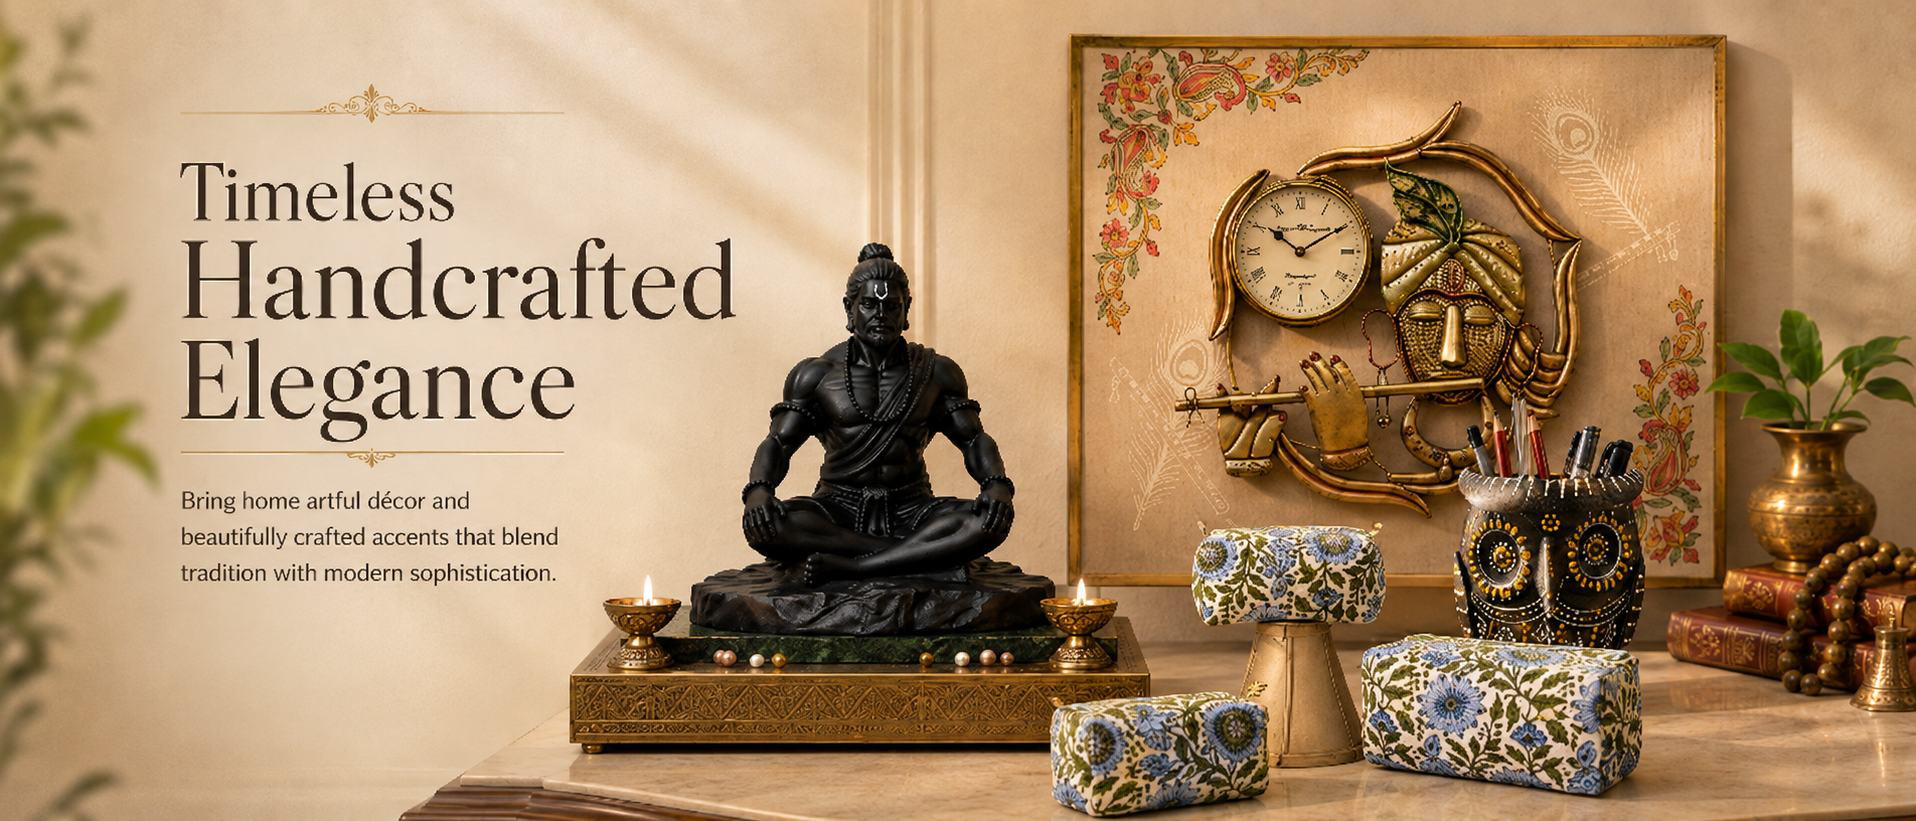
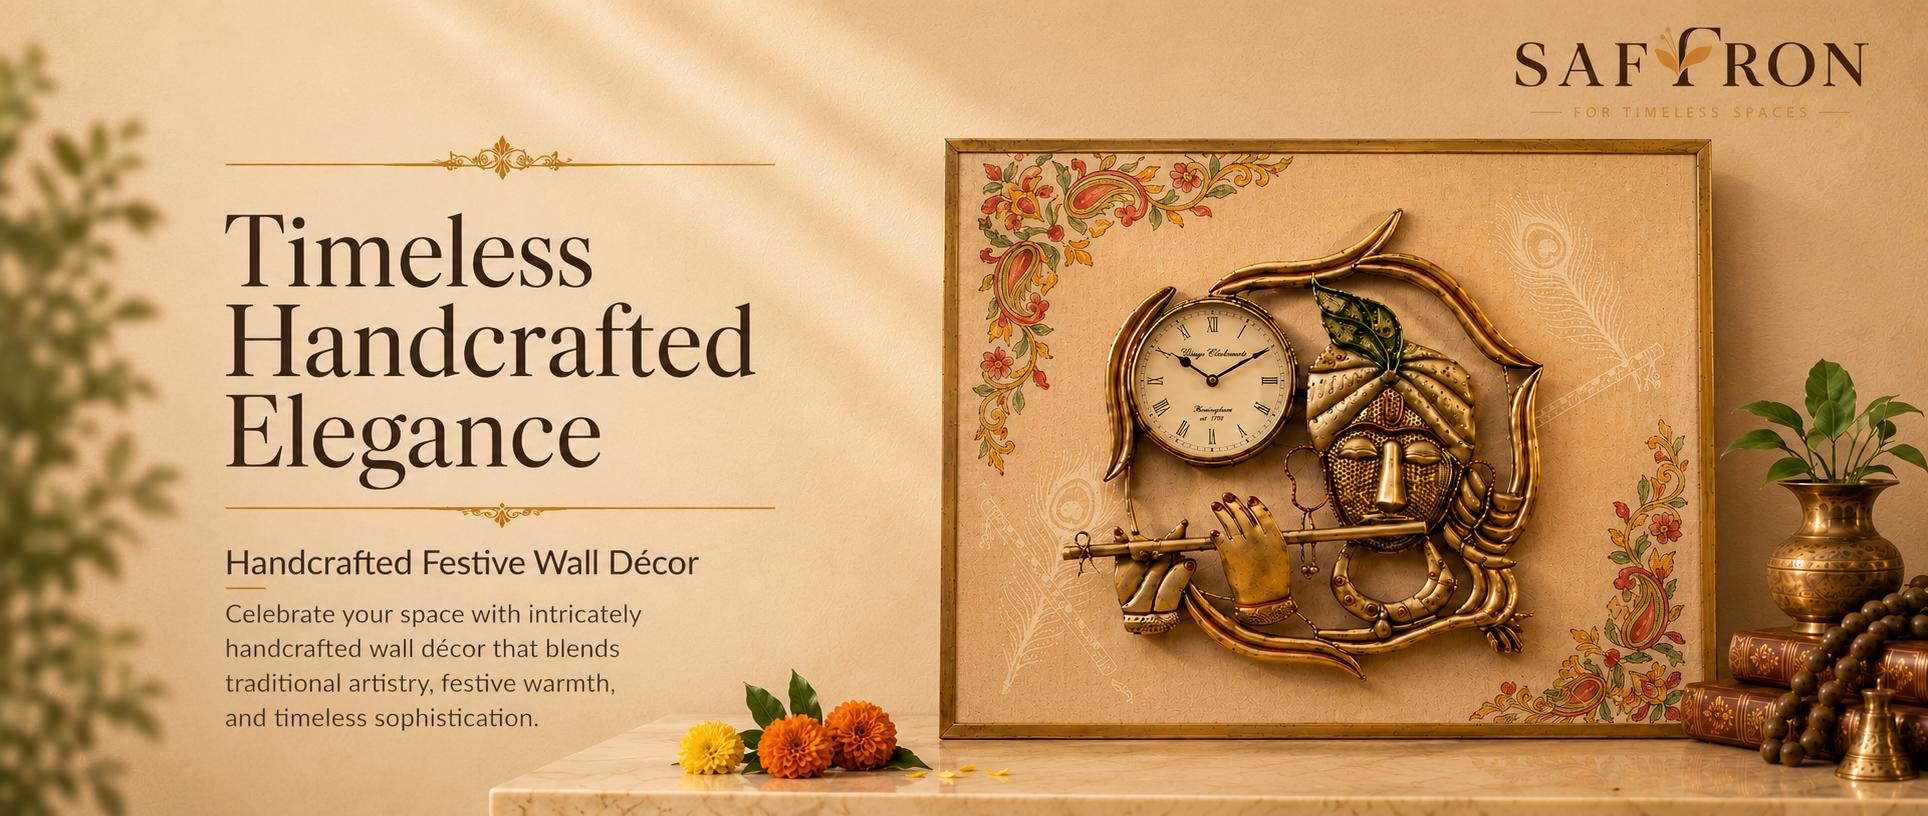
improve hero section of saffron page

diff --git a/src/Components/SaffronHeroSlider.jsx b/src/Components/SaffronHeroSlider.jsx
@@ -1,0 +1,121 @@
+import { useCallback, useEffect, useRef, useState } from "react";
+import { ChevronLeft, ChevronRight } from "lucide-react";
+import { useTranslation } from "react-i18next";
+import saffronHeroOne from "../assets/image.png";
+import saffronHeroTwo from "../assets/image2.png";
+import saffronHeroThree from "../assets/image3.png";
+import saffronHeroFour from "../assets/image4.png";
+
+const banners = [
+  saffronHeroOne,
+  saffronHeroTwo,
+  saffronHeroThree,
+  saffronHeroFour,
+];
+
+const SaffronHeroSlider = () => {
+  const { t } = useTranslation("common");
+  const sliderRef = useRef(null);
+  const [activeSlide, setActiveSlide] = useState(0);
+  const [isPaused, setIsPaused] = useState(false);
+
+  const goToSlide = useCallback((index) => {
+    sliderRef.current?.scrollTo({
+      left: sliderRef.current.clientWidth * index,
+      behavior: "smooth",
+    });
+  }, []);
+
+  useEffect(() => {
+    if (isPaused) return undefined;
+
+    const timer = window.setTimeout(() => {
+      goToSlide((activeSlide + 1) % banners.length);
+    }, 2000);
+
+    return () => window.clearTimeout(timer);
+  }, [activeSlide, goToSlide, isPaused]);
+
+  const handleScroll = (event) => {
+    const slider = event.currentTarget;
+    const nextSlide = Math.round(slider.scrollLeft / slider.clientWidth);
+
+    if (nextSlide !== activeSlide) {
+      setActiveSlide(nextSlide);
+    }
+  };
+
+  return (
+    <section
+      className="relative overflow-hidden bg-[#eadcc7]"
+      aria-label={t("navigation.saffron")}
+      onMouseEnter={() => setIsPaused(true)}
+      onMouseLeave={() => setIsPaused(false)}
+      onFocusCapture={() => setIsPaused(true)}
+      onBlurCapture={(event) => {
+        if (!event.currentTarget.contains(event.relatedTarget)) {
+          setIsPaused(false);
+        }
+      }}
+    >
+      <div
+        ref={sliderRef}
+        className="flex touch-pan-y snap-x snap-mandatory overflow-x-auto scroll-smooth [scrollbar-width:none] [&::-webkit-scrollbar]:hidden"
+        onScroll={handleScroll}
+      >
+        {banners.map((banner, index) => (
+          <div
+            className="aspect-[241/102] min-w-full snap-center"
+            key={banner}
+          >
+            <img
+              className="size-full object-cover object-center max-md:object-contain"
+              src={banner}
+              alt={`${t("navigation.saffron")} ${index + 1}`}
+              draggable="false"
+            />
+          </div>
+        ))}
+      </div>
+
+      <button
+        type="button"
+        className="absolute left-4 top-1/2 grid size-11 -translate-y-1/2 place-items-center rounded-full border border-[#d79a43]/80 bg-[#fff8e9]/90 text-[#6b3d12] shadow-[0_6px_20px_rgba(83,46,10,0.22)] backdrop-blur-sm transition duration-200 hover:scale-105 hover:border-[#30c8bb] hover:bg-white hover:text-[#183255] focus-visible:outline focus-visible:outline-2 focus-visible:outline-offset-2 focus-visible:outline-[#30c8bb] max-sm:left-2 max-sm:size-9"
+        aria-label={t("accessibility.previousSlide")}
+        onClick={() =>
+          goToSlide((activeSlide - 1 + banners.length) % banners.length)
+        }
+      >
+        <ChevronLeft className="size-6 max-sm:size-5" aria-hidden="true" />
+      </button>
+
+      <button
+        type="button"
+        className="absolute right-4 top-1/2 grid size-11 -translate-y-1/2 place-items-center rounded-full border border-[#d79a43]/80 bg-[#fff8e9]/90 text-[#6b3d12] shadow-[0_6px_20px_rgba(83,46,10,0.22)] backdrop-blur-sm transition duration-200 hover:scale-105 hover:border-[#30c8bb] hover:bg-white hover:text-[#183255] focus-visible:outline focus-visible:outline-2 focus-visible:outline-offset-2 focus-visible:outline-[#30c8bb] max-sm:right-2 max-sm:size-9"
+        aria-label={t("accessibility.nextSlide")}
+        onClick={() => goToSlide((activeSlide + 1) % banners.length)}
+      >
+        <ChevronRight className="size-6 max-sm:size-5" aria-hidden="true" />
+      </button>
+
+      <div className="absolute bottom-3 left-1/2 flex -translate-x-1/2 gap-2 rounded-full bg-[#172b50]/35 px-3 py-2 backdrop-blur-sm max-sm:bottom-2">
+        {banners.map((banner, index) => (
+          <button
+            type="button"
+            className={`size-2.5 rounded-full border border-white transition ${
+              activeSlide === index
+                ? "bg-white"
+                : "bg-white/35 hover:bg-white/70"
+            }`}
+            key={banner}
+            aria-label={`${t("navigation.saffron")} ${index + 1}`}
+            aria-current={activeSlide === index ? "true" : undefined}
+            onClick={() => goToSlide(index)}
+          />
+        ))}
+      </div>
+    </section>
+  );
+};
+
+export default SaffronHeroSlider;

diff --git a/src/pages/Saffron.jsx b/src/pages/Saffron.jsx
@@ -1,6 +1,5 @@
 import Footer from '../Components/Common/Footer'
-import { useTranslation } from 'react-i18next'
-import saffronHeroImg from '../assets/image.png'
+import SaffronHeroSlider from '../Components/SaffronHeroSlider'
 import ShopByCategory from '../Components/ShopByCategory'
 import HandpickedProducts from '../Components/HandpickedProducts'
 import SaffronLegacy from '../Components/SaffronLegacy'
@@ -8,17 +7,10 @@ import ShopBySpace from '../Components/ShopBySpace'
 import SaffronLatestBlog from '../Components/SaffronLatestBlog'
 
 const Saffron = () => {
-  const { t } = useTranslation('common')
   return (
     <>
       <main className="bg-white text-[#1b3156]">
-        <section className="bg-[#eadcc7]">
-          <img
-            className="h-auto min-h-[250px] w-full object-cover object-center max-md:min-h-0 max-md:object-contain"
-            src={saffronHeroImg}
-            alt={t('navigation.saffron')}
-          />
-        </section>
+        <SaffronHeroSlider />
         <ShopByCategory />
         <HandpickedProducts />
         <SaffronLegacy />
